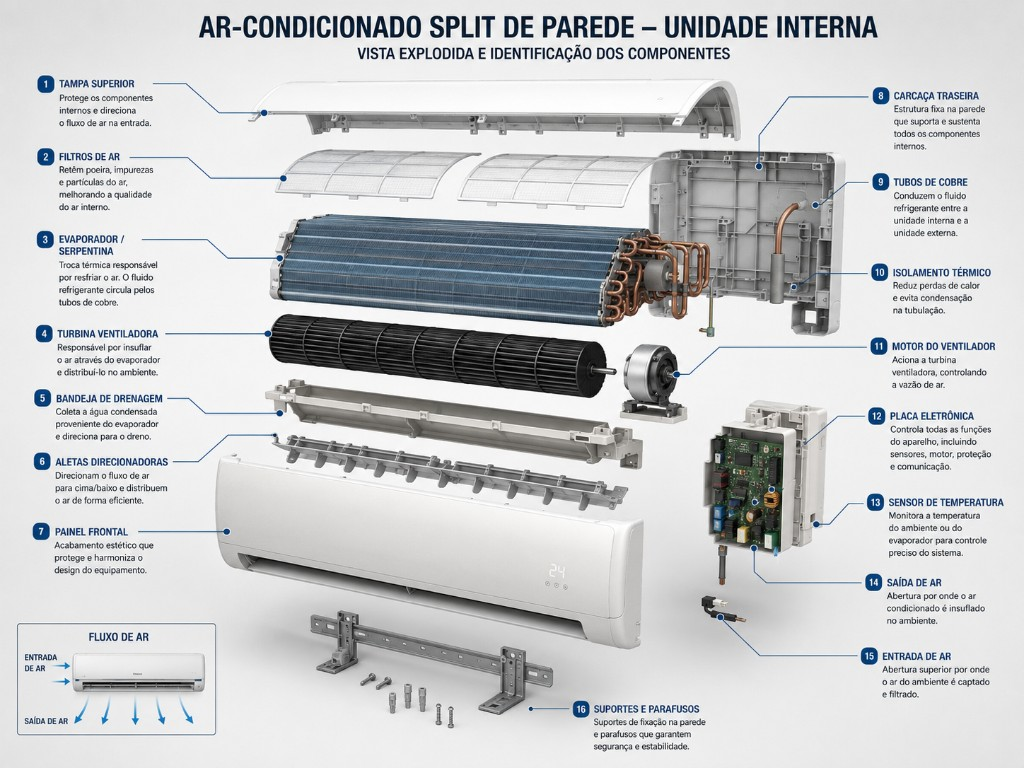
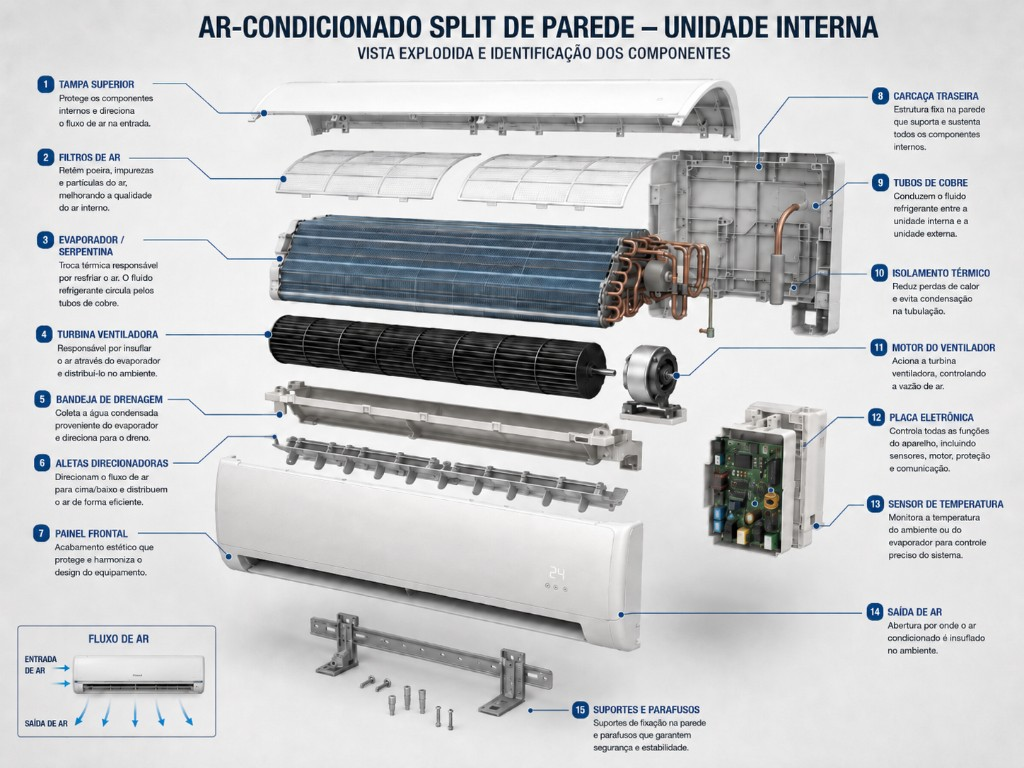
refactor: alterei a imagem de manutenção

diff --git a/src/routes/manutencoes.tsx b/src/routes/manutencoes.tsx
@@ -89,7 +89,7 @@ function ManutencoesPage() {
         <div className="rounded-2xl border border-border/50 bg-card p-4 shadow-sm sm:p-6">
           <img
             src={componentesImg}
-            alt="Vista explodida de um ar-condicionado split de parede com identificação dos componentes internos: tampa superior, filtros de ar, evaporador, turbina ventiladora, bandeja de drenagem, aletas direcionadoras, painel frontal, carcaça traseira, tubos de cobre, isolamento térmico, motor do ventilador, placa eletrônica, sensor de temperatura, saída e entrada de ar, e suportes de fixação."
+            alt="Vista explodida de um ar-condicionado split de parede com identificação dos componentes internos: tampa superior, filtros de ar, evaporador, turbina ventiladora, bandeja de drenagem, aletas direcionadoras, painel frontal, carcaça traseira, tubos de cobre, isolamento térmico, motor do ventilador, placa eletrônica, sensor de temperatura, saída de ar e suportes de fixação, com destaque para o fluxo de entrada e saída de ar."
             className="w-full rounded-lg"
             loading="lazy"
           />
